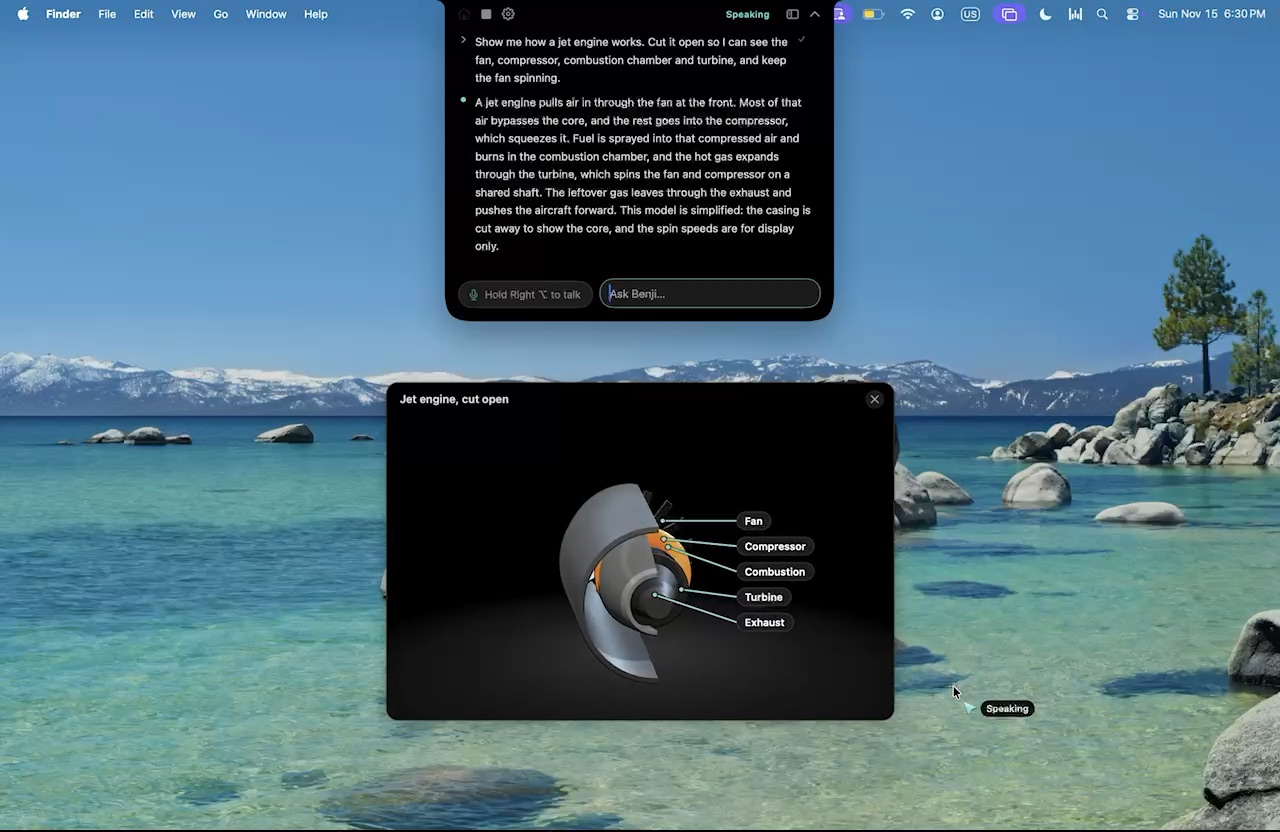
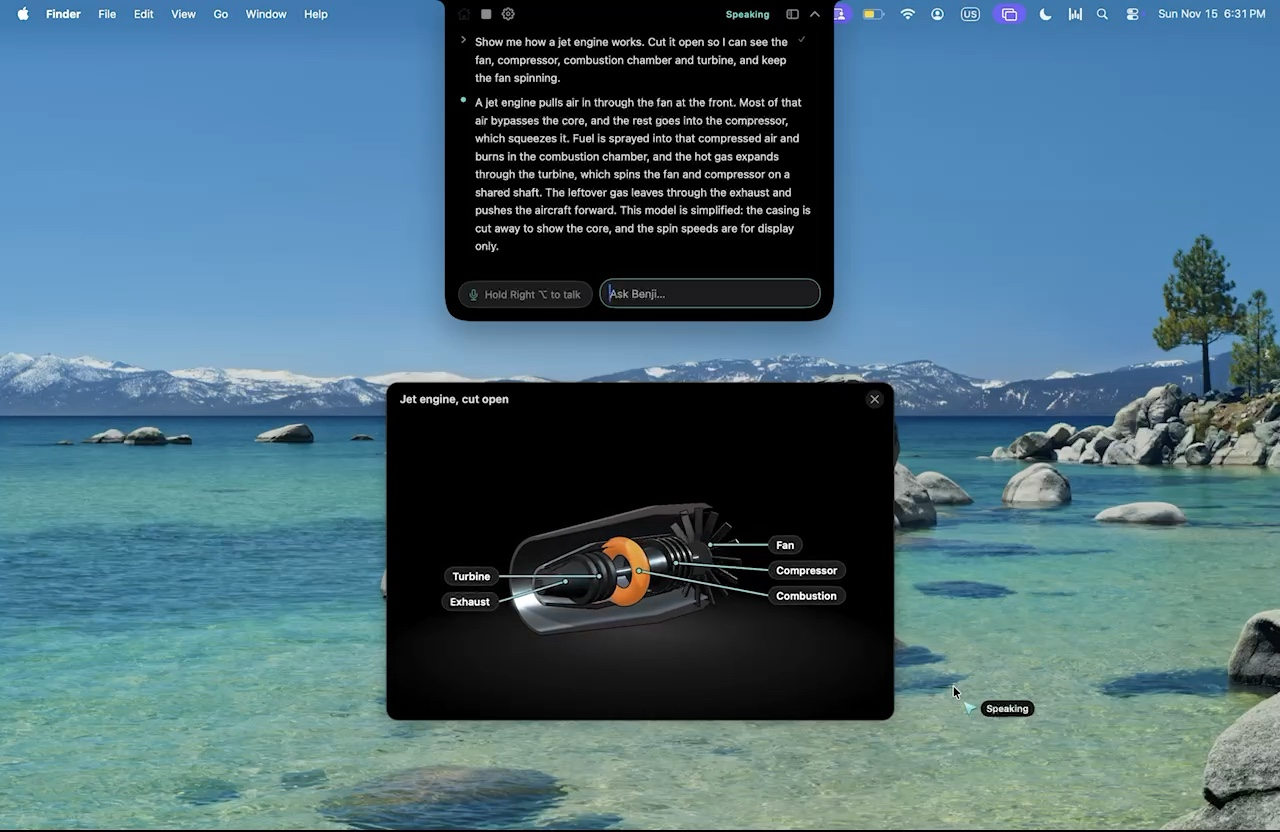
Project page: shorter, plainer, the demo up top, phone control added (#24)
The header is a notch holding the wordmark. The real demo sits under the
headline, and each feature carries its true status. A short "It asks first"
section uses the app's approval yellow. The video poster and the link preview
use a frame of the demo; the old wordmark preview image is gone.

diff --git a/site/index.html b/site/index.html
@@ -4,70 +4,111 @@
   <meta charset="utf-8">
   <meta name="viewport" content="width=device-width,initial-scale=1">
   <meta name="color-scheme" content="dark">
-  <meta name="description" content="Benji is an open-source, voice-first assistant for the Mac. Talk or type, work with files, and ask about your screen. Build from source.">
-  <title>Benji · A helping hand for your Mac</title>
+  <meta name="description" content="Benji is an open-source assistant that lives in your Mac's notch. Talk or type, and it looks at your screen, points at things and gets work done. It asks before anything risky.">
+  <title>Benji · A helping hand in your Mac's notch</title>
   <link rel="icon" href="assets/benji-app-icon.svg" type="image/svg+xml">
   <link rel="canonical" href="https://umarali.github.io/benji/">
-  <meta name="theme-color" content="#080c0d">
+  <meta name="theme-color" content="#000000">
   <meta property="og:type" content="website">
   <meta property="og:site_name" content="Benji">
-  <meta property="og:title" content="Benji · A helping hand for your Mac">
-  <meta property="og:description" content="An open-source, voice-first assistant in your Mac's notch. Talk or type, work with files, and ask about your screen. It asks before anything risky. Build from source.">
+  <meta property="og:title" content="Benji · A helping hand in your Mac's notch">
+  <meta property="og:description" content="Open source. Talk or type, and it looks at your screen, points at things and gets work done. It asks before anything risky.">
   <meta property="og:url" content="https://umarali.github.io/benji/">
-  <meta property="og:image" content="https://umarali.github.io/benji/assets/benji-social.png">
+  <meta property="og:image" content="https://umarali.github.io/benji/assets/benji-social-demo.jpg">
   <meta property="og:image:width" content="1200">
   <meta property="og:image:height" content="630">
-  <meta property="og:image:alt" content="Benji: a helping hand for your Mac. The Benji wordmark and app icon on a dark ground.">
+  <meta property="og:image:alt" content="Benji's panel under the MacBook notch, answering how a jet engine works, with a labelled 3D cut-away of the engine below it.">
   <meta name="twitter:card" content="summary_large_image">
   <link rel="stylesheet" href="style.css">
 </head>
 <body>
   <a class="skip" href="#main">Skip to content</a>
-  <header class="header wrap">
-    <a class="brand" href="#main" aria-label="Benji home"><img src="assets/benji-wordmark-dark.svg" alt="Benji" width="112" height="49"></a>
-    <nav aria-label="Main navigation"><a href="#demo">See it work</a><a href="#features">What it does</a><a href="#start">Get started</a><a href="https://github.com/umarali/benji">GitHub</a></nav>
+
+  <header class="top">
+    <nav class="nav nav-left" aria-label="Sections">
+      <a href="#demo">Demo</a><a href="#what">What it does</a><a href="#asks">Safety</a>
+    </nav>
+    <a class="notch" href="#main" aria-label="Benji, back to top"><img src="assets/benji-wordmark-dark.svg" alt="Benji" width="92" height="40"></a>
+    <nav class="nav nav-right" aria-label="Get it">
+      <a href="#build">Build it</a><a href="https://github.com/umarali/benji">GitHub</a>
+    </nav>
   </header>
+
   <main id="main">
     <section class="hero wrap" aria-labelledby="hero-title">
-      <div class="hero-copy">
-        <p class="eyebrow">An open-source Mac assistant</p>
-        <h1 id="hero-title">A helping hand<br>for your Mac.</h1>
-        <p class="intro">Talk or type to Benji in your Mac's notch. Work with files and ask about your screen.</p>
-        <a class="button" href="https://github.com/umarali/benji/blob/main/docs/setup.md">Build from source <span aria-hidden="true">↗</span></a>
+      <p class="tag">Open source · macOS 14+ · MIT</p>
+      <h1 id="hero-title">A helping hand in your Mac's&nbsp;notch.</h1>
+      <p class="lede">Talk to it or type. It looks at your screen, points at what you need and gets things done. And it asks before anything risky.</p>
+      <div class="actions">
+        <a class="button" href="https://github.com/umarali/benji/blob/main/docs/setup.md">Build it</a>
+        <a class="button quiet" href="https://github.com/umarali/benji">See the code</a>
       </div>
-      <img class="hero-icon" src="assets/benji-app-icon.svg" alt="Benji's app icon: two mint elbows on a dark square" width="480" height="480" fetchpriority="high">
     </section>
-    <aside class="release-note wrap" aria-label="Project status"><p><strong>Early software.</strong> Used on one Mac so far. You build it from source; there is no signed download yet. <a href="https://github.com/umarali/benji/blob/main/docs/status.md">See what has been verified.</a></p></aside>
-    <section id="demo" class="demo wrap" aria-labelledby="demo-title">
-      <h2 id="demo-title">One request, start to finish.</h2>
+
+    <section id="demo" class="demo wrap" aria-label="Demo">
       <video controls preload="none" playsinline width="1280" height="832" poster="assets/benji-demo-jet-engine.jpg" aria-describedby="demo-caption">
         <source src="assets/benji-demo-jet-engine.mp4" type="video/mp4">
-        <a href="assets/benji-demo-jet-engine.mp4">Download the recording (MP4, 67 seconds)</a>
+        <a href="assets/benji-demo-jet-engine.mp4">Download the video (MP4, 67 seconds)</a>
       </video>
-      <p id="demo-caption" class="demo-caption">Asked: <q>Show me how a jet engine works. Cut it open so I can see the fan, compressor, combustion chamber and turbine, and keep the fan spinning.</q></p>
+      <p id="demo-caption" class="caption">Asked: <q>Show me how a jet engine works. Cut it open so I can see the fan, compressor, combustion chamber and turbine, and keep the fan spinning.</q></p>
     </section>
-    <section id="features" class="features wrap" aria-labelledby="features-title">
-      <h2 id="features-title">A few ways to get things done.</h2>
-      <dl class="feature-list">
-        <div><dt>Speak, or keep it typed.</dt><dd>Hold the talk key and ask, or type in the panel. Apple's on-device speech recognition turns your voice into text.</dd></div>
-        <div><dt>Work with your files.</dt><dd>Read files, write drafts and run commands. Benji's approval rules ask before destructive or outward-facing actions.</dd></div>
-        <div><dt>Ask about your screen.</dt><dd>Attach one screenshot to your next message. Benji can explain what it sees and point at a control.</dd></div>
-        <div><dt>Choose your model.</dt><dd>Bring your own provider key or connect a local model. Anthropic is the main live-tested path; other providers are not live-tested.</dd></div>
-      </dl>
-      <p class="feature-note">Background jobs are experimental. Browser reach, app offers and newer display features are not live-tested. The <a href="https://github.com/umarali/benji/blob/main/docs/status.md">feature status page</a> keeps the details in one place.</p>
+
+    <p class="early wrap">Early days. It's been used on one Mac, and there's no download yet, so you build it yourself. <a href="https://github.com/umarali/benji/blob/main/docs/status.md">Here's what's been tested.</a></p>
+
+    <section id="what" class="what wrap" aria-labelledby="what-title">
+      <h2 id="what-title">What it does</h2>
+      <ul class="grid">
+        <li><h3>Talk or type</h3><p>Hold Right ⌥ and talk, or just type. Your voice is turned into text on your Mac.</p></li>
+        <li><h3>Sees your screen</h3><p>It points at the button you meant. If you let it, it clicks, scrolls and types for you while you watch.</p><span class="status">Clicking: not tested live yet</span></li>
+        <li><h3>Draws it in 3D</h3><p>Ask how something works and it builds a labelled model you can spin around, then talks you through it.</p></li>
+        <li><h3>Does the work</h3><p>Runs commands, reads and writes files, searches the web, and drives your apps with AppleScript and Shortcuts.</p></li>
+        <li><h3>Works in the background</h3><p>Hand off a longer job and carry on. It works in its own folder and checks with you when it needs to.</p><span class="status">Experimental</span></li>
+        <li><h3>From your phone</h3><p>Send it a task from your phone over your own Tailscale network. Follow along, stop it, or say yes from there.</p><span class="status">Experimental · <a href="https://github.com/umarali/benji/blob/main/docs/remote-control.md">setup</a></span></li>
+      </ul>
     </section>
-    <section id="start" class="start wrap" aria-labelledby="start-title">
-      <div class="start-heading"><h2 id="start-title">Start with the source.</h2><p>Benji is a Mac app with a Swift interface and a Python engine. The engine uses only Python's standard library.</p></div>
-      <div class="start-body"><p>The app requires macOS 14 or later. Source builds need Python 3.11 or later, Xcode 26 or later on a supported build Mac, and a model provider or local model.</p><p>The <a href="https://github.com/umarali/benji/blob/main/docs/setup.md">setup guide</a> walks through building the app, choosing a model and optional permissions. Provider usage may cost money; Benji doesn't include model credits.</p><a class="text-link" href="https://github.com/umarali/benji/blob/main/docs/setup.md">Read the build guide <span aria-hidden="true">↗</span></a></div>
+
+    <section id="asks" class="asks wrap" aria-labelledby="asks-title">
+      <div class="asks-head">
+        <h2 id="asks-title">It asks first.</h2>
+        <p>The rules are in the code, not in a prompt the model could be talked out of.</p>
+      </div>
+      <ul class="rules">
+        <li>Before it deletes, sends, buys, or writes outside its own folder, it asks you.</li>
+        <li>Once it has read a web page, every change asks. Whatever the page says.</li>
+        <li>Your keys, mail, messages and browser data stay shut unless you say yes.</li>
+        <li>No account, no tracking, no server of ours. Requests go to the model you pick.</li>
+      </ul>
+      <a class="more" href="https://github.com/umarali/benji/blob/main/docs/safety.md">How the rules work</a>
     </section>
-    <section class="questions wrap" aria-labelledby="questions-title">
-      <h2 id="questions-title">Before you try it.</h2>
-      <details><summary>What leaves my Mac?</summary><p>On-device speech recognition handles transcription. Your chosen model provider receives your requests, tool results and, as Settings › Screen sets, screenshots. Web searches and page fetches also contact those sites. See <a href="https://github.com/umarali/benji/blob/main/docs/privacy.md">the privacy details</a> for each path.</p></details>
-      <details><summary>How much control does it have?</summary><p>Benji can change files and control apps when allowed. Approval rules run in code, but they are not a sandbox. Read what you approve and leave command-line auto-approval off. <a href="https://github.com/umarali/benji/blob/main/.github/SECURITY.md">Read the safety limits.</a></p></details>
-      <details><summary>Can I help without writing code?</summary><p>Yes. Try the setup on your Mac and tell us which step lost you, or open an issue with what you saw. <a href="https://github.com/umarali/benji/blob/main/.github/CONTRIBUTING.md">The contribution guide</a> explains the process.</p></details>
+
+    <section class="models wrap" aria-labelledby="models-title">
+      <h2 id="models-title">Bring your own model.</h2>
+      <p>Claude by default. Or OpenAI, DeepSeek, GLM, Kimi or Qwen, or a model on your own Mac through Ollama or LM Studio. Only Claude has been used for real so far.</p>
     </section>
-    <section class="contribute wrap" aria-labelledby="contribute-title"><h2 id="contribute-title">A small project,<br>built in the open.</h2><div><p>One maintainer, a public codebase and useful work to pick up. Start with an issue, keep the change focused, and say what you checked.</p><a class="text-link" href="https://github.com/umarali/benji/issues">Find something to work on <span aria-hidden="true">↗</span></a></div></section>
+
+    <section id="build" class="build wrap" aria-labelledby="build-title">
+      <div>
+        <h2 id="build-title">Build it yourself.</h2>
+        <p>You'll need macOS 14 or later, Xcode 26, Python 3.11 and a model key.</p>
+        <a class="more" href="https://github.com/umarali/benji/blob/main/docs/setup.md">The setup guide</a>
+      </div>
+      <pre class="term" aria-label="Commands to get the code and build the app"><code><span class="p">$</span> git clone https://github.com/umarali/benji.git
+<span class="p">$</span> cd benji/companion
+<span class="p">$</span> ./build.sh &amp;&amp; open Benji.app</code></pre>
+    </section>
+
+    <section class="faq wrap" aria-labelledby="faq-title">
+      <h2 id="faq-title">Questions</h2>
+      <details><summary>What leaves my Mac?</summary><p>Your messages, what its tools find, and screenshots (on by default, you can turn them off) go to the model you chose. Your voice becomes text on your Mac. Nothing comes to us. <a href="https://github.com/umarali/benji/blob/main/docs/privacy.md">The details</a>.</p></details>
+      <details><summary>Is it safe to let it act?</summary><p>It's not a sandbox. The rules above stop the risky stuff, but read what you approve.</p></details>
+      <details><summary>Will it work on my Mac?</summary><p>It needs macOS 14 or later. So far it's been used on one Apple silicon MacBook with a notch. Other Macs haven't been tried much yet.</p></details>
+      <details><summary>Can I help?</summary><p>Yes, please. Try building it and tell us where you got stuck. <a href="https://github.com/umarali/benji/issues">Issues</a> and pull requests are welcome.</p></details>
+    </section>
   </main>
-  <footer class="footer wrap"><p>Benji is an early, MIT-licensed project by <a href="https://github.com/umarali">Umar Ali</a>.</p><div><a href="https://github.com/umarali/benji/blob/main/LICENSE">License</a><a href="https://github.com/umarali/benji/blob/main/.github/SECURITY.md">Security</a><a href="https://github.com/umarali/benji">Source</a></div></footer>
+
+  <footer class="foot wrap">
+    <p>Made by <a href="https://github.com/umarali">Umar Ali</a>. MIT licensed.</p>
+    <div><a href="https://github.com/umarali/benji">GitHub</a><a href="https://github.com/umarali/benji/blob/main/docs/README.md">Docs</a><a href="https://github.com/umarali/benji/blob/main/.github/SECURITY.md">Security</a></div>
+  </footer>
 </body>
 </html>

diff --git a/site/style.css b/site/style.css
@@ -1,8 +1,118 @@
-/* Benji's existing brand, native CSS. Design variance 5, motion 1, density 3.
-   One dark theme, existing mint accent and original artwork. No UI simulation. */
-:root{color-scheme:dark;--bg:#080c0d;--raised:#11191a;--text:#f2f6f5;--muted:#acbfbd;--mint:#66d4cf;--line:#2a3c3d;--radius:14px;font-family:-apple-system,BlinkMacSystemFont,"Helvetica Neue",system-ui,sans-serif;color:var(--text);background:var(--bg)}
-*{box-sizing:border-box}html{scroll-padding-top:28px}body{margin:0;font-size:17px;line-height:1.65}a{color:var(--mint);text-underline-offset:4px}a:hover{text-decoration-thickness:2px}a:focus-visible,summary:focus-visible{outline:3px solid var(--mint);outline-offset:6px;border-radius:3px}img{display:block;max-width:100%;height:auto}.wrap{width:min(1120px,calc(100% - 64px));margin-inline:auto}.skip{position:absolute;top:12px;left:-9999px;z-index:5;background:var(--bg);padding:10px 18px}.skip:focus{left:16px}.header{height:80px;display:flex;align-items:center;justify-content:space-between;gap:24px}.brand{padding-block:8px}.brand img{width:112px;height:auto}.header nav{display:flex;gap:30px;align-items:center}.header nav a{font-size:15px;color:var(--muted);text-decoration:none;padding:10px 0}.header nav a:hover{color:var(--text)}
-.hero{display:grid;grid-template-columns:1.2fr 1fr;align-items:center;gap:24px;padding-top:52px;padding-bottom:58px}.eyebrow{font-size:15px;color:var(--mint);margin:0 0 24px}h1,h2,dt{letter-spacing:-.045em}h1{font-size:clamp(48px,6.4vw,88px);line-height:1.04;font-weight:650;margin:0 0 28px}.intro{font-size:20px;line-height:1.55;max-width:470px;color:var(--muted);margin:0 0 32px}.button{display:inline-flex;gap:25px;align-items:center;justify-content:center;color:var(--bg);background:var(--mint);border-radius:var(--radius);padding:13px 21px;min-height:52px;font-weight:650;text-decoration:none;white-space:nowrap}.button:hover{background:#bdf6f1;text-decoration:none}.hero-icon{width:100%;max-width:480px;justify-self:end}.release-note{padding:20px 24px;background:var(--raised);border:1px solid var(--line);border-radius:var(--radius)}.release-note p{margin:0;color:var(--muted);font-size:15px}.release-note strong{color:var(--text);font-weight:600}
-h2{font-size:clamp(30px,3.5vw,44px);line-height:1.16;font-weight:600;margin:0 0 32px}.features{padding-top:105px;padding-bottom:80px}.feature-list{display:grid;grid-template-columns:1fr 1fr;gap:42px 90px;margin:46px 0}.feature-list dt{font-size:23px;font-weight:600;line-height:1.3;margin-bottom:12px}.feature-list dd{margin:0;color:var(--muted);max-width:460px}.feature-note{font-size:15px;color:var(--muted);max-width:860px;margin:0}.start{display:grid;grid-template-columns:1fr 1fr;gap:90px;border-top:1px solid var(--line);padding-block:68px}.start-heading h2{margin-bottom:24px}.start p{color:var(--muted);margin:0 0 20px}.text-link{font-weight:600;text-decoration:none;display:inline-block;padding-block:8px}.text-link span{margin-left:12px}.text-link:hover{text-decoration:underline}.questions{padding-block:50px 72px}.questions details{max-width:820px;padding-block:20px;border-bottom:1px solid var(--line)}.questions summary{font-weight:550;font-size:20px;cursor:pointer;padding-right:12px}.questions details p{color:var(--muted);margin:16px 0 0;max-width:740px}.contribute{display:grid;grid-template-columns:1fr 1fr;gap:90px;padding-block:64px 82px;border-top:1px solid var(--line)}.contribute p{color:var(--muted);margin:0 0 18px}.contribute h2{margin:0}.footer{display:flex;justify-content:space-between;gap:25px;align-items:center;border-top:1px solid var(--line);padding-block:28px 40px;font-size:13px;color:var(--muted)}.footer p{margin:0}.footer div{display:flex;gap:24px}.footer a{color:var(--muted)}
-@media(min-width:1200px){.hero{min-height:560px}}@media(max-width:767px){.wrap{width:calc(100% - 40px)}.header{height:80px;gap:16px}.header nav{gap:19px}.header nav a{font-size:14px}.header nav a:first-child{display:none}.brand img{width:96px}.hero{grid-template-columns:1fr;gap:8px;padding-top:36px;padding-bottom:28px}.hero-copy{max-width:540px}h1{font-size:clamp(43px,9.8vw,68px)}.eyebrow{margin-bottom:20px}.intro{font-size:18px;max-width:430px;margin-bottom:24px}.hero-icon{width:240px;justify-self:center;margin-block:6px}.release-note{padding:17px 19px}.features{padding-top:64px;padding-bottom:48px}.feature-list{grid-template-columns:1fr;gap:30px;margin:32px 0}.feature-list dt{font-size:22px}.start,.contribute{grid-template-columns:1fr;gap:20px;padding-block:42px}.start-heading h2{margin-bottom:18px}.questions{padding-block:30px 48px}.questions summary{font-size:18px}.footer{align-items:flex-start;flex-direction:column;gap:18px;padding-bottom:28px}h2{margin-bottom:22px}}@media(prefers-reduced-motion:reduce){*,*::before,*::after{scroll-behavior:auto!important;animation:none!important;transition:none!important}}@media print{:root{color-scheme:light;color:#111;background:#fff}body{font-size:11pt}.wrap{width:100%}.header{height:auto;padding-block:14px}.header nav,.hero-icon,.button,.skip{display:none}.brand{background:#111;padding:10px}.hero,.start,.features,.questions,.contribute{padding-block:22px;min-height:0}.hero{display:block}h1{font-size:32pt}h2{font-size:21pt}.intro,.feature-list dd,.feature-note,.start p,.contribute p,.questions details p,.footer,.release-note p{color:#333}.release-note{background:none;border-color:#777}.release-note strong,a{color:#111}.feature-list{gap:20px;margin-block:20px}.footer{padding-block:15px}.questions details{break-inside:avoid}.questions details:not([open]){display:none}}
-.demo{padding-top:56px}.demo h2{margin:0 0 24px}.demo video{display:block;width:100%;height:auto;border-radius:var(--radius);border:1px solid var(--line);background:#000}.demo-caption{color:var(--muted);font-size:15px;line-height:1.55;max-width:760px;margin:16px 0 0}.demo-caption q{color:var(--text)}
+/* Benji's project page. Colours are the app's own: the notch's black, Benji's mint, and the
+   macOS system yellow the app uses for an approval card (only where the page talks about asking).
+   System fonts on purpose: it is a Mac app, and the page loads nothing from anyone else. */
+:root{
+  color-scheme:dark;
+  --notch:#000;--bg:#080c0d;--raised:#11191a;--line:#22302f;
+  --text:#f2f6f5;--muted:#a3b6b4;--mint:#66d4cf;--ask:#ffd60a;
+  --radius:16px;
+  --sans:-apple-system,BlinkMacSystemFont,"SF Pro Text","Helvetica Neue",system-ui,sans-serif;
+  --display:-apple-system,BlinkMacSystemFont,"SF Pro Display","Helvetica Neue",system-ui,sans-serif;
+  --mono:ui-monospace,"SF Mono",SFMono-Regular,Menlo,monospace;
+  font-family:var(--sans);color:var(--text);background:var(--bg)
+}
+*{box-sizing:border-box}
+html{scroll-padding-top:24px}
+body{margin:0;font-size:17px;line-height:1.6;background:radial-gradient(1200px 520px at 50% -180px,#10201f 0%,var(--bg) 70%) no-repeat,var(--bg)}
+a{color:var(--mint);text-underline-offset:4px}
+a:focus-visible,summary:focus-visible{outline:3px solid var(--mint);outline-offset:4px;border-radius:6px}
+img,video{display:block;max-width:100%;height:auto}
+.wrap{width:min(1080px,calc(100% - 48px));margin-inline:auto}
+.skip{position:absolute;left:-9999px;top:60px;z-index:5;background:var(--raised);padding:10px 16px}
+.skip:focus{left:16px}
+
+/* The header is the notch: the wordmark sits in a black notch flush with the top of the page,
+   with the navigation either side, the way Benji itself lives on a MacBook. */
+.top{display:grid;grid-template-columns:1fr auto 1fr;align-items:start;width:min(1080px,calc(100% - 48px));margin-inline:auto}
+.nav{display:flex;gap:26px;padding-top:18px}
+.nav-right{justify-content:flex-end}
+.nav a{color:var(--muted);text-decoration:none;font-size:15px;padding:6px 0}
+.nav a:hover{color:var(--text)}
+.notch{display:flex;align-items:center;justify-content:center;background:var(--notch);width:200px;height:58px;border-radius:0 0 22px 22px;position:relative;animation:drop .55s cubic-bezier(.2,.9,.25,1) both}
+.notch::before,.notch::after{content:"";position:absolute;top:0;width:14px;height:14px;background:radial-gradient(circle at 0 100%,transparent 13.5px,var(--notch) 14px)}
+.notch::before{left:-14px;transform:scaleX(-1)}
+.notch::after{right:-14px}
+.notch img{width:78px;height:auto}
+@keyframes drop{from{transform:translateY(-100%)}to{transform:none}}
+
+.hero{text-align:center;padding:84px 0 40px}
+.tag{font:500 13px/1 var(--mono);letter-spacing:.04em;color:var(--mint);margin:0 0 26px}
+h1,h2,h3{font-family:var(--display);letter-spacing:-.035em;font-weight:650}
+h1{font-size:clamp(42px,6.6vw,84px);line-height:1.02;margin:0 auto 24px;max-width:15ch;text-wrap:balance}
+.lede{font-size:clamp(18px,1.9vw,21px);color:var(--muted);max-width:34em;margin:0 auto 32px;text-wrap:pretty}
+.actions{display:flex;gap:12px;justify-content:center;flex-wrap:wrap}
+.button{display:inline-flex;align-items:center;min-height:48px;padding:0 22px;border-radius:999px;background:var(--mint);color:#04201f;font-weight:650;text-decoration:none}
+.button:hover{background:#9be8e3}
+.button.quiet{background:transparent;color:var(--text);box-shadow:inset 0 0 0 1px var(--line)}
+.button.quiet:hover{box-shadow:inset 0 0 0 1px var(--muted)}
+
+.demo{padding-top:24px}
+.demo video{width:100%;border-radius:var(--radius);background:#000;box-shadow:0 0 0 1px var(--line),0 40px 120px -40px rgba(102,212,207,.25)}
+.caption{color:var(--muted);font-size:15px;margin:14px auto 0;max-width:46em;text-align:center}
+.caption q{color:var(--text)}
+.early{margin-top:44px;padding:16px 20px;border:1px solid var(--line);border-radius:var(--radius);color:var(--muted);font-size:15px;text-align:center}
+
+h2{font-size:clamp(30px,3.6vw,44px);line-height:1.1;margin:0 0 28px}
+.what{padding-top:110px}
+.grid{list-style:none;margin:0;padding:0;display:grid;grid-template-columns:repeat(3,1fr);gap:1px;background:var(--line);border:1px solid var(--line);border-radius:var(--radius);overflow:hidden}
+.grid li{background:var(--bg);padding:28px 26px 30px;display:flex;flex-direction:column}
+.grid h3{font-size:21px;margin:0 0 10px;letter-spacing:-.02em}
+.grid p{margin:0;color:var(--muted);font-size:16px}
+.status{margin-top:auto;padding-top:18px;font:500 12px/1.4 var(--mono);color:var(--muted)}
+.status::before{content:"";display:inline-block;width:7px;height:7px;border-radius:50%;background:var(--muted);margin-right:8px;vertical-align:1px;opacity:.7}
+
+.asks{margin-top:110px;padding:44px;border-radius:var(--radius);background:var(--raised);position:relative;display:grid;grid-template-columns:1fr 1.25fr;gap:24px 56px}
+.asks::before{content:"";position:absolute;inset:0 0 auto;height:3px;border-radius:var(--radius) var(--radius) 0 0;background:var(--ask)}
+.asks h2{margin-bottom:14px}
+.asks-head p{color:var(--muted);margin:0}
+.rules{list-style:none;margin:0;padding:0}
+.rules li{padding:14px 0 14px 24px;border-bottom:1px solid var(--line);position:relative}
+.rules li:last-child{border-bottom:0}
+.rules li::before{content:"";position:absolute;left:0;top:24px;width:8px;height:8px;border-radius:50%;background:var(--ask)}
+.asks .more{grid-column:2}
+.more{font-weight:600;text-decoration:none}
+.more::after{content:" →"}
+.more:hover{text-decoration:underline}
+
+.models{padding-top:110px}
+.models p{color:var(--muted);font-size:19px;margin:0;max-width:40em}
+
+.build{margin-top:110px;padding-top:56px;border-top:1px solid var(--line);display:grid;grid-template-columns:1fr 1.3fr;gap:48px;align-items:start}
+.build h2{margin-bottom:14px}
+.build p{color:var(--muted);margin:0 0 18px}
+.term{margin:0;background:var(--notch);border:1px solid var(--line);border-radius:var(--radius);padding:22px 24px;overflow-x:auto;font:14px/1.9 var(--mono);color:var(--text)}
+.term .p{color:var(--mint);user-select:none}
+
+.faq{padding-block:96px 72px}
+.faq details{border-bottom:1px solid var(--line);padding:18px 0;max-width:820px}
+.faq summary{font-size:19px;font-weight:600;cursor:pointer;list-style:none;display:flex;justify-content:space-between;gap:16px}
+.faq summary::-webkit-details-marker{display:none}
+.faq summary::after{content:"+";color:var(--muted);font-weight:400}
+.faq details[open] summary::after{content:"–"}
+.faq details p{color:var(--muted);margin:12px 0 0;max-width:680px}
+
+.foot{display:flex;justify-content:space-between;gap:20px;flex-wrap:wrap;border-top:1px solid var(--line);padding-block:26px 40px;font-size:14px;color:var(--muted)}
+.foot p{margin:0}
+.foot div{display:flex;gap:22px}
+.foot a{color:var(--muted)}
+.foot a:hover{color:var(--text)}
+
+@media (max-width:900px){
+  .grid{grid-template-columns:1fr 1fr}
+  .asks{grid-template-columns:1fr;padding:32px 26px}
+  .asks .more{grid-column:1}
+  .build{grid-template-columns:1fr}
+}
+@media (max-width:640px){
+  .wrap,.top{width:calc(100% - 32px)}
+  .top{grid-template-columns:1fr;justify-items:center}
+  .nav-left{display:none}
+  .nav-right{order:2;padding-top:12px}
+  .notch{width:150px;height:48px}
+  .notch img{width:66px}
+  .hero{padding-top:44px}
+  .grid{grid-template-columns:1fr}
+  .what,.models,.asks,.build{margin-top:0;padding-top:72px}
+  .asks{margin-top:72px;padding-top:32px}
+}
+@media (prefers-reduced-motion:reduce){.notch{animation:none}}
